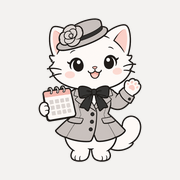
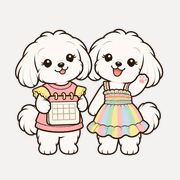
도우미를 강아지 초롱이·몽이로 교체 (앱 아이콘 포함)
고양이 그림을 없애고 강아지 두 마리로 바꿨습니다.
대화창 답변 앞에 두 마리 얼굴이 작게 나옵니다.

Claude-Session: https://claude.ai/code/session_01UTZV5Do2QHrg4YcBvXRzgr

diff --git a/index.html b/index.html
@@ -194,15 +194,23 @@ body.gate main>*:not(#gate){display:none}
 main{padding-bottom:210px}
 #chatOpen.mini .bubble{display:none}
 #chatOpen{position:fixed;right:10px;bottom:8px;z-index:5;display:flex;align-items:flex-end;gap:2px;background:none;border:0;padding:0;font:inherit;color:var(--ink)}
-#chatOpen img{width:96px;height:auto;pointer-events:none;filter:drop-shadow(0 3px 5px rgba(0,0,0,.28))}
+#chatOpen img{width:124px;height:auto;pointer-events:none;filter:drop-shadow(0 3px 5px rgba(0,0,0,.28))}
 .bubble{position:relative;background:var(--surface);border:1.5px solid var(--ink);border-radius:18px;padding:10px 16px;font-weight:700;font-size:16px;line-height:1.4;margin-bottom:62px;text-align:left;box-shadow:0 3px 10px rgba(0,0,0,.18)}
 .bubble::after{content:"";position:absolute;right:-8px;bottom:14px;width:13px;height:13px;background:var(--surface);border-right:1.5px solid var(--ink);border-bottom:1.5px solid var(--ink);transform:rotate(-45deg)}
 #chatOpen:hover .bubble,#chatOpen:focus-visible .bubble{background:var(--accent);color:var(--accent-ink)}
 #chatOpen:hover .bubble::after,#chatOpen:focus-visible .bubble::after{background:var(--accent)}
 .chathead strong{display:flex;align-items:center;gap:8px}
-.chathead img{width:40px;height:40px;object-fit:contain}
+.chathead img{width:38px;height:38px;object-fit:contain}
+.chathead strong img+img{margin-left:-14px}
+.arow{display:flex;align-items:flex-start;gap:6px;align-self:flex-start;max-width:96%}
+.arow .msg{max-width:none}
+.av{display:flex;flex:none;padding-top:2px}
+.av img{width:30px;height:30px;object-fit:contain}
+.av img+img{margin-left:-12px}
+.chg{margin-left:54px}
 .hello{display:flex;align-items:flex-end;gap:6px}
-.hello img{width:84px;height:auto;flex:none}
+.hello{flex-direction:column;align-items:flex-start}
+.hello img{width:150px;height:auto;flex:none}
 .hello .msg{max-width:none}
 #chatBox{position:fixed;right:16px;bottom:16px;z-index:6;width:min(390px,calc(100vw - 32px));height:min(560px,calc(100% - 32px));display:flex;flex-direction:column;background:var(--surface);border:1px solid var(--ink);box-shadow:0 8px 28px rgba(0,0,0,.3)}
 .chathead{display:flex;align-items:center;justify-content:space-between;padding:10px 14px;border-bottom:1px solid var(--ink);font-family:var(--display);font-size:18px}
@@ -221,8 +229,8 @@ body.m .savebox{order:5}
 body.m.view .savebox{display:none}
 @media (max-width:1000px){.savebox{position:static;align-items:center;text-align:center}}
 @media (max-width:560px){
-  #chatOpen{right:6px;bottom:6px} #chatOpen img{width:62px} .bubble{font-size:14px;padding:8px 12px;margin-bottom:40px}
-  #adminRow{padding-right:76px;min-height:70px} .installbox{margin-right:0}
+  #chatOpen{right:6px;bottom:6px} #chatOpen img{width:84px} .bubble{font-size:14px;padding:8px 12px;margin-bottom:34px}
+  #adminRow{padding-right:96px;min-height:70px} .installbox{margin-right:0}
   h1{font-size:25px;order:-1;width:100%} .step{padding:16px 12px} main{padding:20px 16px 48px}
   .blk .name{font-size:13px} td.c button{font-size:15px} td.c.L button{font-size:10px}
   .btn.big{width:100%}
@@ -322,9 +330,9 @@ body.m.view .savebox{display:none}
   </div>
 </main>
 
-<button id="chatOpen" hidden aria-label="도우미에게 물어보기"><span class="bubble">궁금한 건<br>저에게 물어보세요</span><img src="helper.png" alt="" width="96"></button>
-<section id="chatBox" hidden aria-label="도우미">
-  <div class="chathead"><strong><img src="helper-face.png" alt="" width="40" height="40">도우미</strong><span class="row"><button class="btn small" id="chatXlsx" hidden>엑셀 올리기</button><button class="btn small" id="chatClose">닫기</button></span></div>
+<button id="chatOpen" hidden aria-label="초롱이와 몽이에게 물어보기"><span class="bubble">궁금한 건<br>초롱이·몽이에게 물어보세요</span><img src="helper.png" alt="" width="124"></button>
+<section id="chatBox" hidden aria-label="도우미 초롱이와 몽이">
+  <div class="chathead"><strong><img src="chorong-face.png" alt="" width="38" height="38"><img src="mong-face.png" alt="" width="38" height="38">초롱이 · 몽이</strong><span class="row"><button class="btn small" id="chatXlsx" hidden>엑셀 올리기</button><button class="btn small" id="chatClose">닫기</button></span></div>
   <div id="chatLog" aria-live="polite"></div>
   <div class="chatin"><input type="text" id="chatIn" maxlength="300" placeholder="궁금한 것을 적어 주세요" aria-label="도우미에게 물어볼 내용"><button class="btn primary" id="chatSend">보내기</button></div>
 </section>
@@ -995,15 +1003,16 @@ function useSheet(c,say){
   const msg=importPaste(c.text);xlsxCands=[];commit();
   (say||(t=>{$('xlsxMsg').textContent=t}))(`"${c.name}" 시트에서 가져왔습니다. `+msg);
 }
+const AV='<span class="av" aria-hidden="true"><img src="chorong-face.png" alt=""><img src="mong-face.png" alt=""></span>';
 function renderChat(){
   const on=!!API&&!!code&&!gate;
   $('chatOpen').hidden=!on||chatOpen;$('chatBox').hidden=!on||!chatOpen;$('chatXlsx').hidden=!canEdit();
   if(!on||!chatOpen)return;
   const qs=['근무표는 어떻게 짜요?','빨간 글이 떴어요. 어떻게 고쳐요?','희망 휴무는 어떻게 넣어요?'];
-  $('chatLog').innerHTML=`<div class="hello"><img src="helper.png" alt="" width="84"><div class="msg a">안녕하세요. 휴무계획표 도우미입니다.<br>쓰는 방법이 헷갈리거나 표에 빨간 글이 뜰 때 물어보세요.<br>저는 AI라서 틀릴 수도 있습니다.</div></div>`+
+  $('chatLog').innerHTML=`<div class="hello"><img src="helper.png" alt="" width="150"><div class="msg a">안녕하세요. 휴무계획표 도우미 초롱이와 몽이예요.<br>쓰는 방법이 헷갈리거나 표에 빨간 글이 뜰 때 물어보세요.<br>저희는 AI라서 틀릴 수도 있습니다.</div></div>`+
     (chat.length?'':`<div class="qs">${qs.map(q=>`<button class="btn small" data-q="${q}">${q}</button>`).join('')}</div>`)+
-    chat.map((c,i)=>`<div class="msg ${c.role==='user'?'u':'a'}">${esc(c.content).replace(/\n/g,'<br>')}</div>`+(c.chg?chgHtml(c,i):'')).join('')+
-    (chatBusy?'<div class="msg a">답을 쓰는 중입니다.</div>':'');
+    chat.map((c,i)=>(c.role==='user'?`<div class="msg u">${esc(c.content).replace(/\n/g,'<br>')}</div>`:`<div class="arow">${AV}<div class="msg a">${esc(c.content).replace(/\n/g,'<br>')}</div></div>`)+(c.chg?chgHtml(c,i):'')).join('')+
+    (chatBusy?`<div class="arow">${AV}<div class="msg a">답을 쓰는 중입니다.</div></div>`:'');
   $('chatLog').scrollTop=$('chatLog').scrollHeight;
 }
 async function boot(){
@@ -1141,7 +1150,7 @@ document.addEventListener('change',e=>{
 
 boot();
 if(typeof window!=='undefined'){
-  // 휴대폰에서는 말풍선이 아래쪽 버튼을 가리지 않도록, 잠시 보여 준 뒤 고양이만 남깁니다.
+  // 휴대폰에서는 말풍선이 아래쪽 버튼을 가리지 않도록, 잠시 보여 준 뒤 강아지들만 남깁니다.
   const shrink=()=>{if(isMobile())$('chatOpen').classList.add('mini')};
   setTimeout(shrink,6000);
   window.addEventListener('scroll',shrink,{passive:true,once:true});

diff --git a/sw.js b/sw.js
@@ -1,5 +1,5 @@
 // 앱으로 설치할 수 있게 해 주는 파일. 항상 새 화면을 먼저 받아 오고, 인터넷이 끊겼을 때만 저장해 둔 화면을 보여 줍니다.
-const CACHE='hyumu-v1';
+const CACHE='hyumu-v2';
 self.addEventListener('install',()=>self.skipWaiting());
 self.addEventListener('activate',e=>e.waitUntil(self.clients.claim()));
 self.addEventListener('fetch',e=>{
